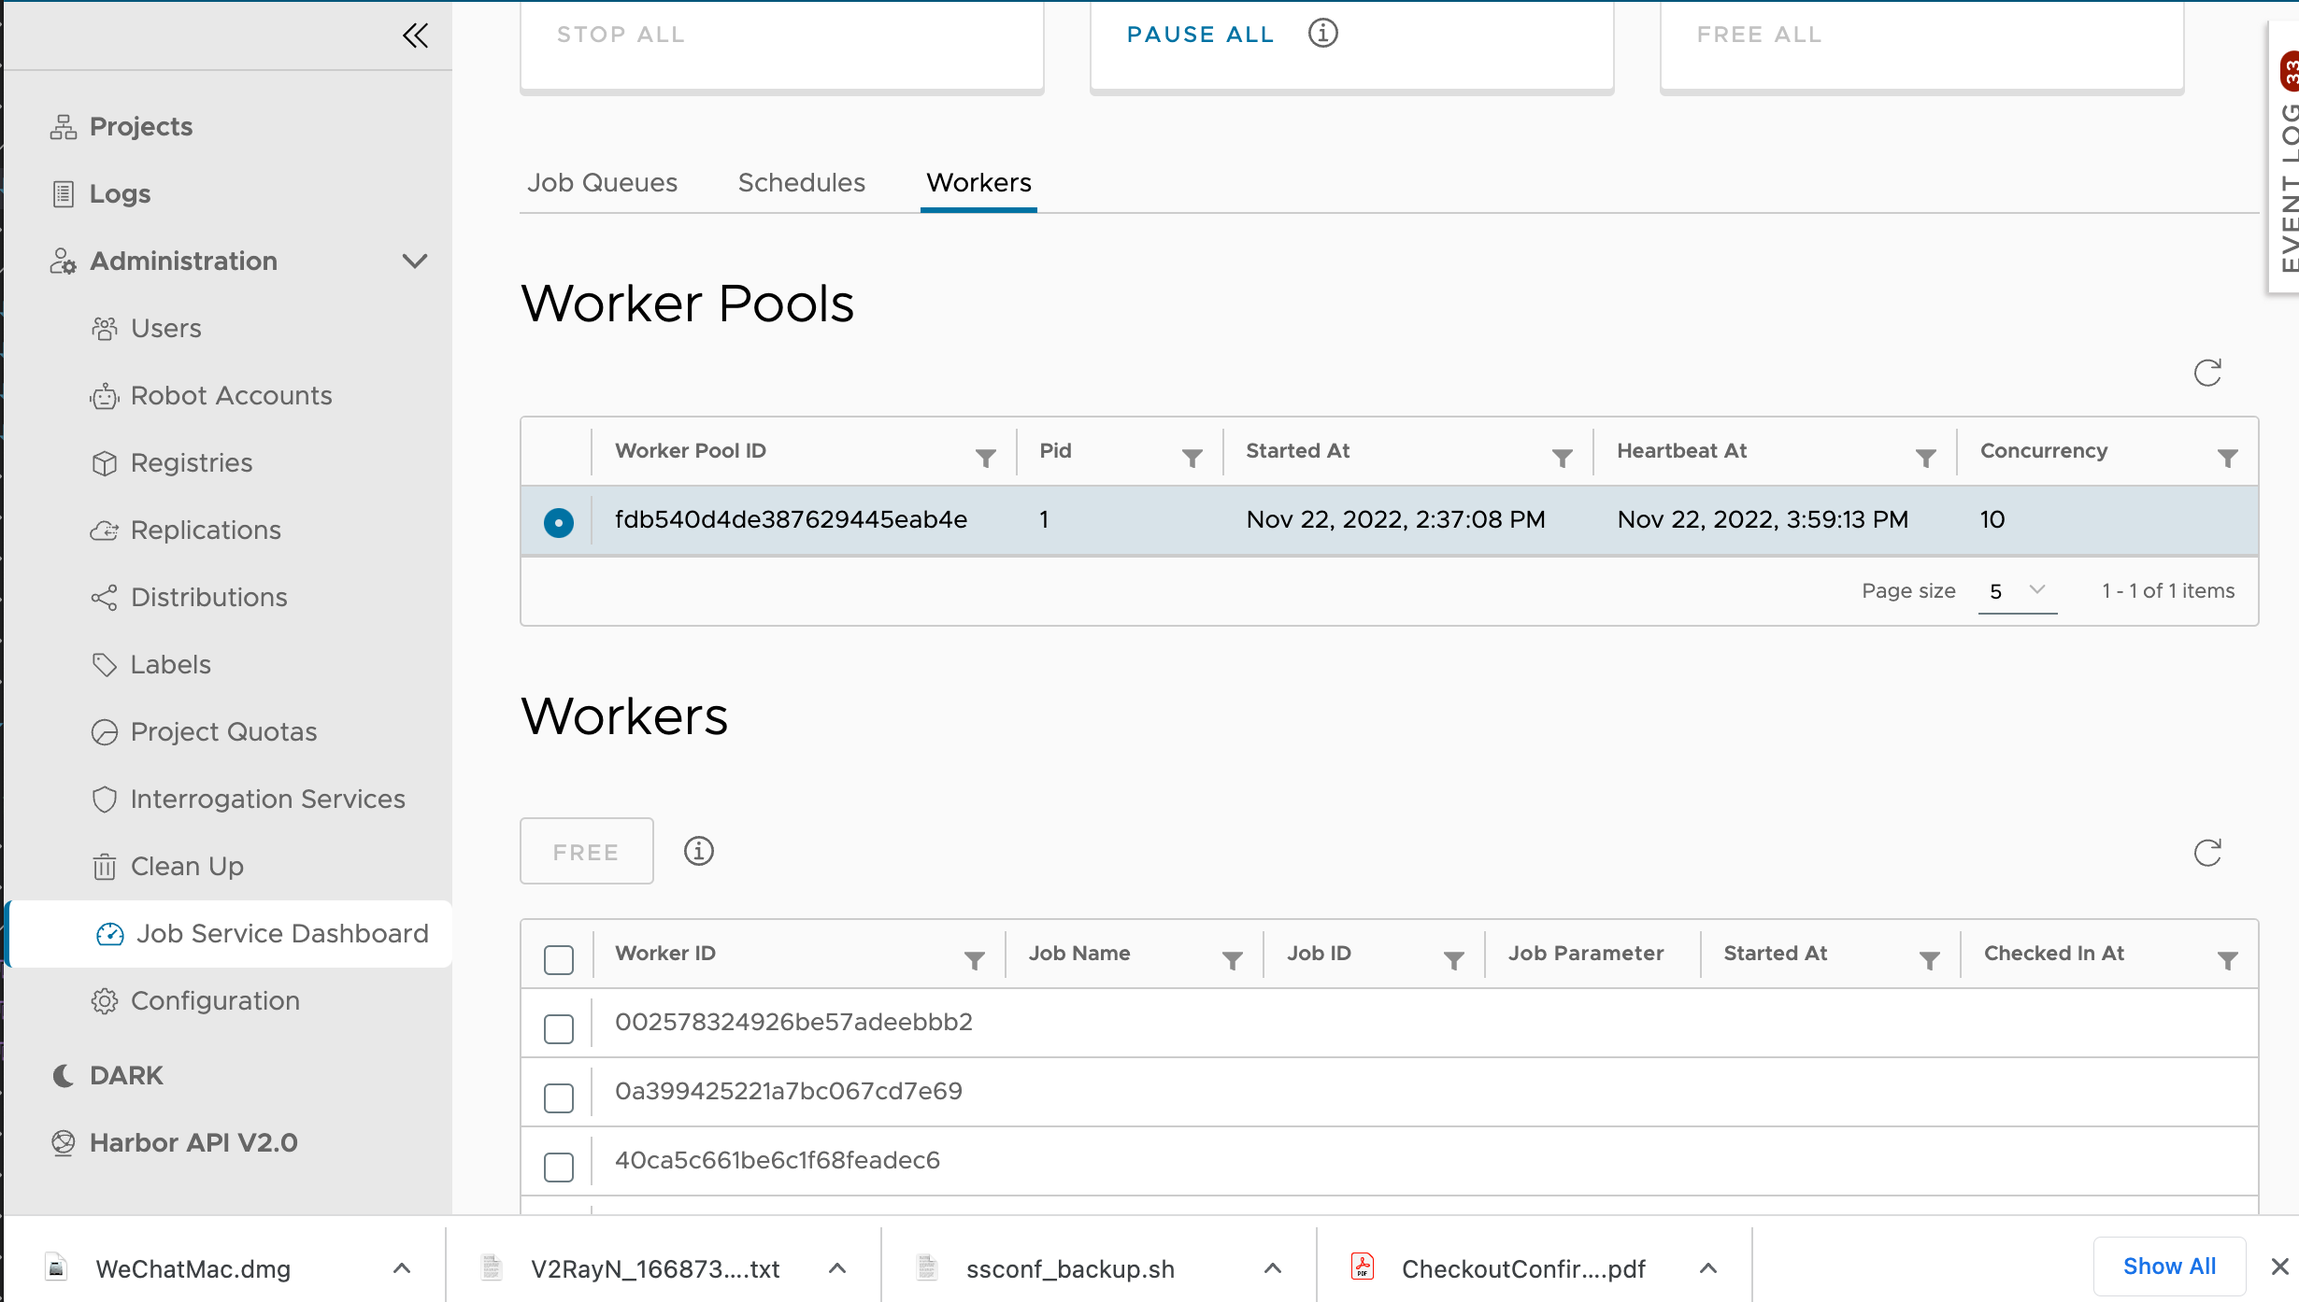
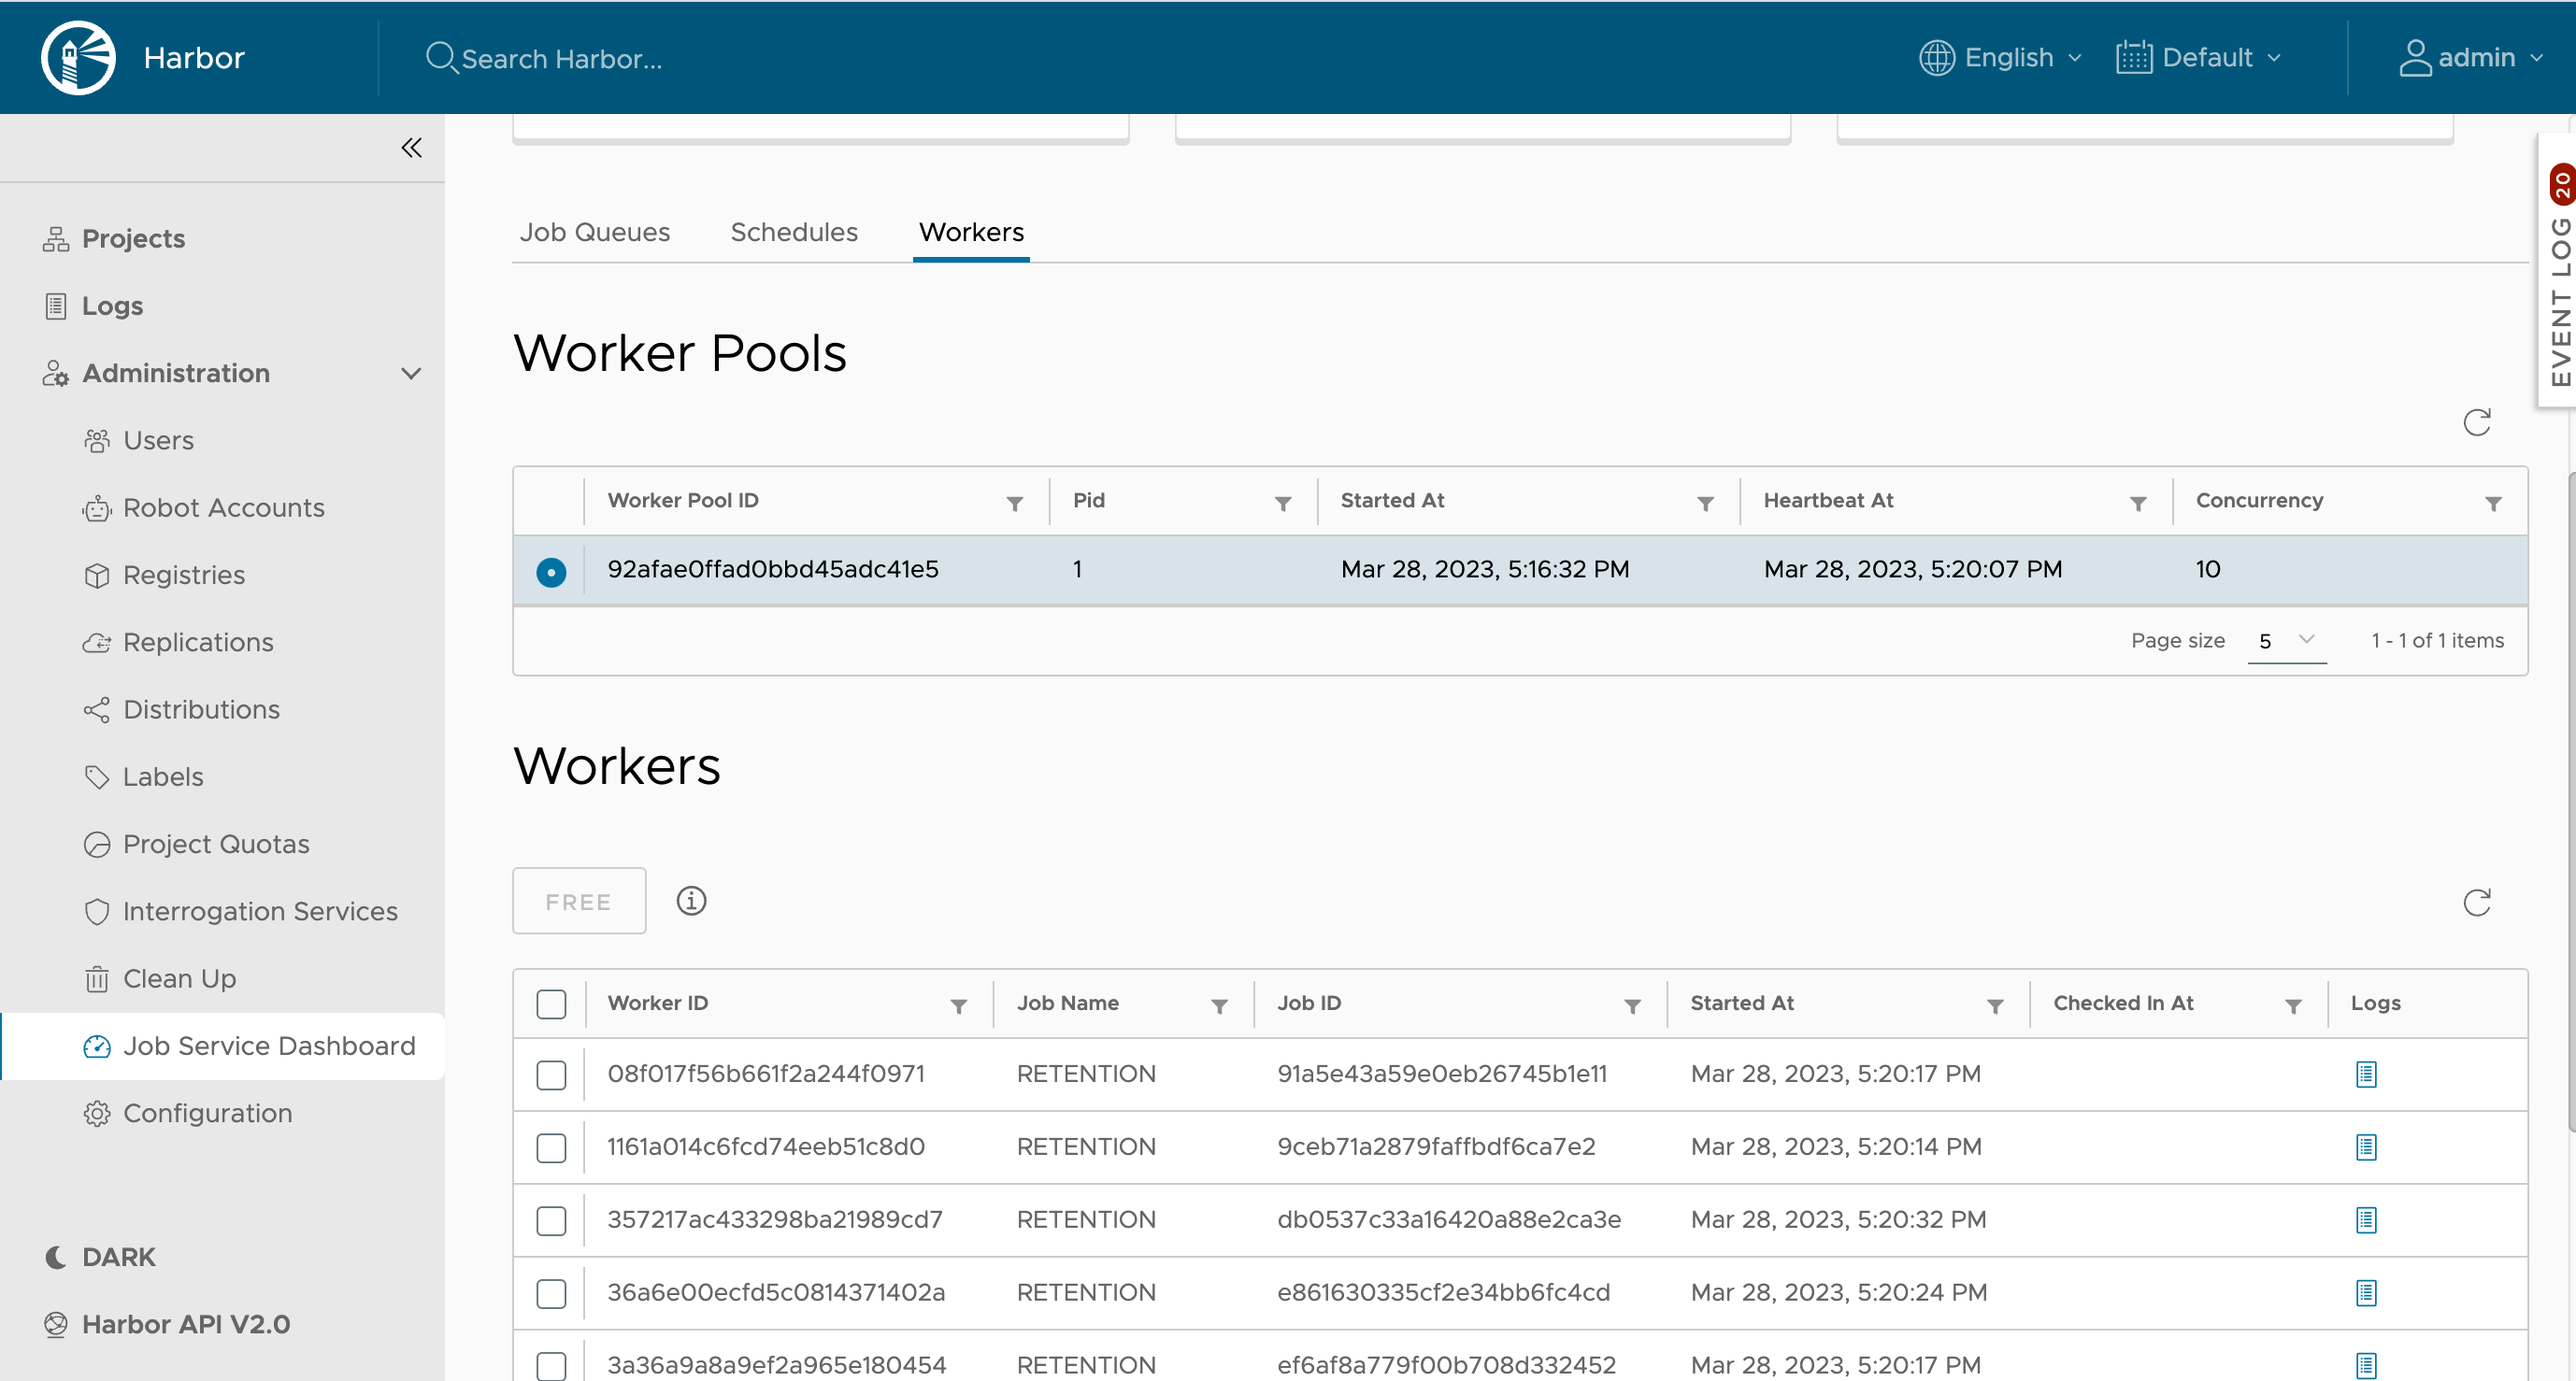
Add display running job log

diff --git a/docs/administration/jobservice-dashboard/_index.md b/docs/administration/jobservice-dashboard/_index.md
@@ -103,10 +103,12 @@ The worker's table displays the details of the workers. The following table desc
 |**Job ID**|The ID of the current job that the worker is executing.|
 |**Started At**|The start time of the current job that the worker is executing.|
 |**Checked In At**|The check in time of the current job that the worker is executing.|
+|**Logs**|The log of the current job that the worker is executing.|
 
 Actions for workers:
 
 -- Click the **Free** button to stop the execution of the current job that the worker is executing to free the worker. The stop operation takes several minutes to complete, it depends on the job type.
+-- Click the link in the **Logs** column to view the log of the current job that the worker is executing.
   
 
   ## Steps to Withdraw an Execution
